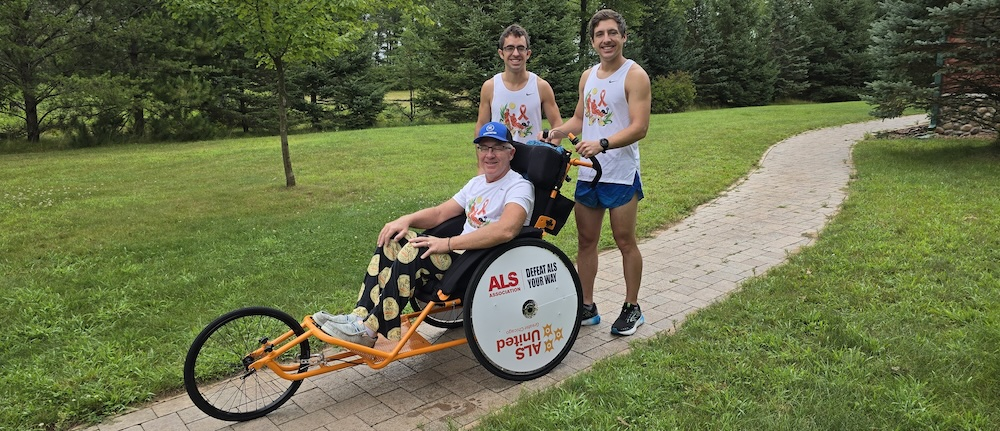
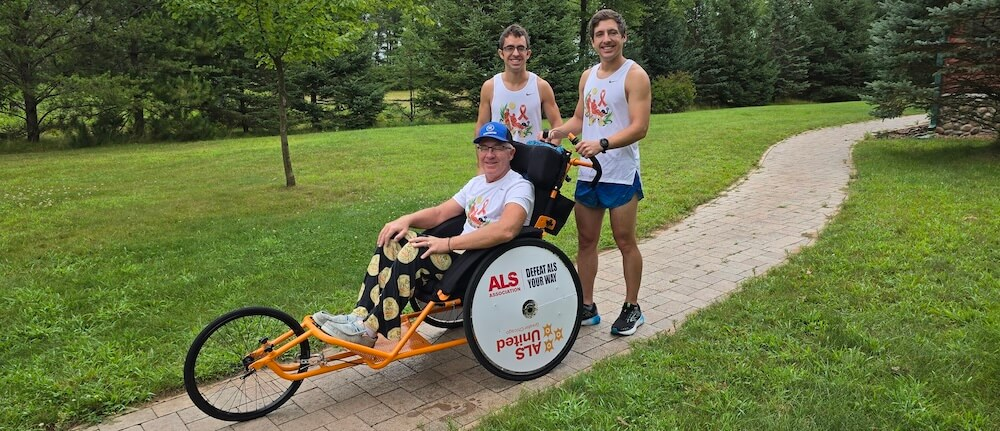
optimize images

diff --git a/src/lib/our-story.svelte b/src/lib/our-story.svelte
@@ -12,19 +12,35 @@
 			</div>
 			<div class="images">
 				<picture>
-					<source media="(min-width:751px)" srcset="images/steamboat-2017.jpg">
+					<source
+						media="(min-width:751px)"
+						srcset="images/steamboat-2017-1x.jpg 500w, images/steamboat-2017-2x.jpg 1000w, images/steamboat-2017-3x.jpg 1500w, images/steamboat-2017-4x.jpg 1926w"
+						width="1926"
+						height="1926"
+					>
 					<img
-						src="images/steamboat-2017-wide.jpg"
+						src="images/steamboat-2017-wide-2x.jpg"
+						srcset="images/steamboat-2017-wide-1x.jpg 500w, images/steamboat-2017-wide-2x.jpg 1000w, images/steamboat-2017-wide-3x.jpg 1500w, images/steamboat-2017-wide-4x.jpg 2000w"
 						alt="Jeff, his daughter Katie, and her husband Chris smiling for a group selfie at the 2017 Steamboat Classic"
 						class="image-top"
+						width="2000"
+						height="1235"
 					/>
 				</picture>
 				<picture>
-					<source media="(min-width:751px)" srcset="images/vineyard.jpg">
+					<source
+						media="(min-width:751px)"
+						srcset="images/vineyard-1x.jpg 500w, images/vineyard-2x.jpg 1000w, images/vineyard-3x.jpg 1500w, images/vineyard-4x.jpg 1934w"
+						width="1934"
+						height="1934"
+					>
 					<img
-						src="images/vineyard-wide.jpg"
+						src="images/vineyard-wide-2x.jpg"
+						srcset="images/vineyard-wide-1x.jpg 500w, images/vineyard-wide-2x.jpg 1000w, images/vineyard-wide-3x.jpg 1500w, images/vineyard-wide-4x.jpg 2000w"
 						alt="Jeff and his wife Karla smiling for a selfie while working in their Nebraska vineyard"
 						class="image-bottom"
+						width="2000"
+						height="1235"
 					/>
 				</picture>
 			</div>
@@ -59,6 +75,7 @@
 			position: absolute;
 			border: 5px solid var(--color-white);
 			width: 55%;
+			height: auto;
 		}
 	}
 
